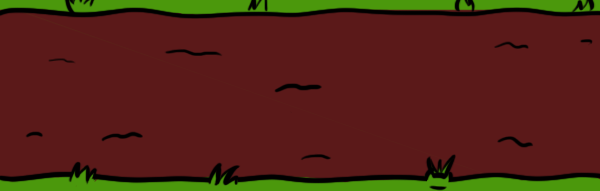
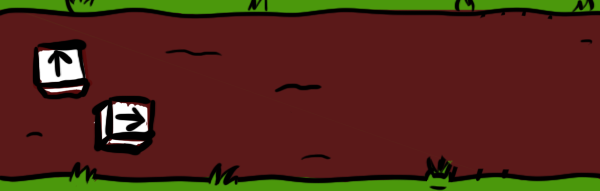
tuto pour les touches

diff --git a/utils.py b/utils.py
@@ -8,7 +8,7 @@ from item import CompositeItem, ImageItem
 
 
 class Road(CompositeItem):
-    def __init__(self, camera: Camera, pos: Vector2):
+    def __init__(self, camera: Camera, pos: Vector2, image_keyboard: str):
         super().__init__(camera, pos, Vector2(-0.2, -0.3))
 
         puzzle_width = 1/3
@@ -17,20 +17,26 @@ class Road(CompositeItem):
         road_length = 40
 
         self._puzzle_pieces = []
-        self._puzzle_pieces.append('road1.png')
+        self._puzzle_pieces.append('road.png')
         #self._puzzle_pieces_append('xxx.png')
 
+        c = +0.2
+
+        self._add_item(ImageItem(self._camera,
+                                 Vector2((-(1 - puzzle_width) / 2)+c, 0),
+                                 Vector2(puzzle_width * 1.01, puzzle_height * 1.01),
+                                 image=image_keyboard))
 
         #affiche la route
-        for i in range(road_length):
+        for i in range(1, road_length):
             rnd = random.randint(0, len(self._puzzle_pieces)-1)
             self._add_item(ImageItem(self._camera,
-                                      Vector2( (-(1-puzzle_width)/2)+ i * puzzle_width, 0),
+                                      Vector2( (-(1-puzzle_width)/2)+ i * puzzle_width + c, 0),
                                       Vector2(puzzle_width * 1.01, puzzle_height * 1.01),
                                       image=self._puzzle_pieces[rnd]) )
 
         self._add_item(ImageItem(self._camera,
-                                 Vector2((-(1 - puzzle_width) / 2) + road_length * puzzle_width, 0),
+                                 Vector2((-(1 - puzzle_width) / 2) + road_length * puzzle_width + c, 0),
                                  Vector2(puzzle_width * 1.01, puzzle_height * 1.01),
                                  image='roadFinish.png'))
 

diff --git a/scene_nolwenn.py b/scene_nolwenn.py
@@ -45,11 +45,11 @@ class SceneNolwenn(Scene):
         road_y_2 = 0.2
 
         # item image composite roads
-        self._road1 = Road(self._camera, Vector2(0, road_y_1))
+        self._road1 = Road(self._camera, Vector2(0, road_y_1), 'road1.png')
         self._road1.set_z_value(20)
         self._add_item(self._road1)
 
-        self._road2 = Road(self._camera, Vector2(0, road_y_2))
+        self._road2 = Road(self._camera, Vector2(0, road_y_2), 'road2.png')
         self._road2.set_z_value(20)
         self._add_item(self._road2)
 
